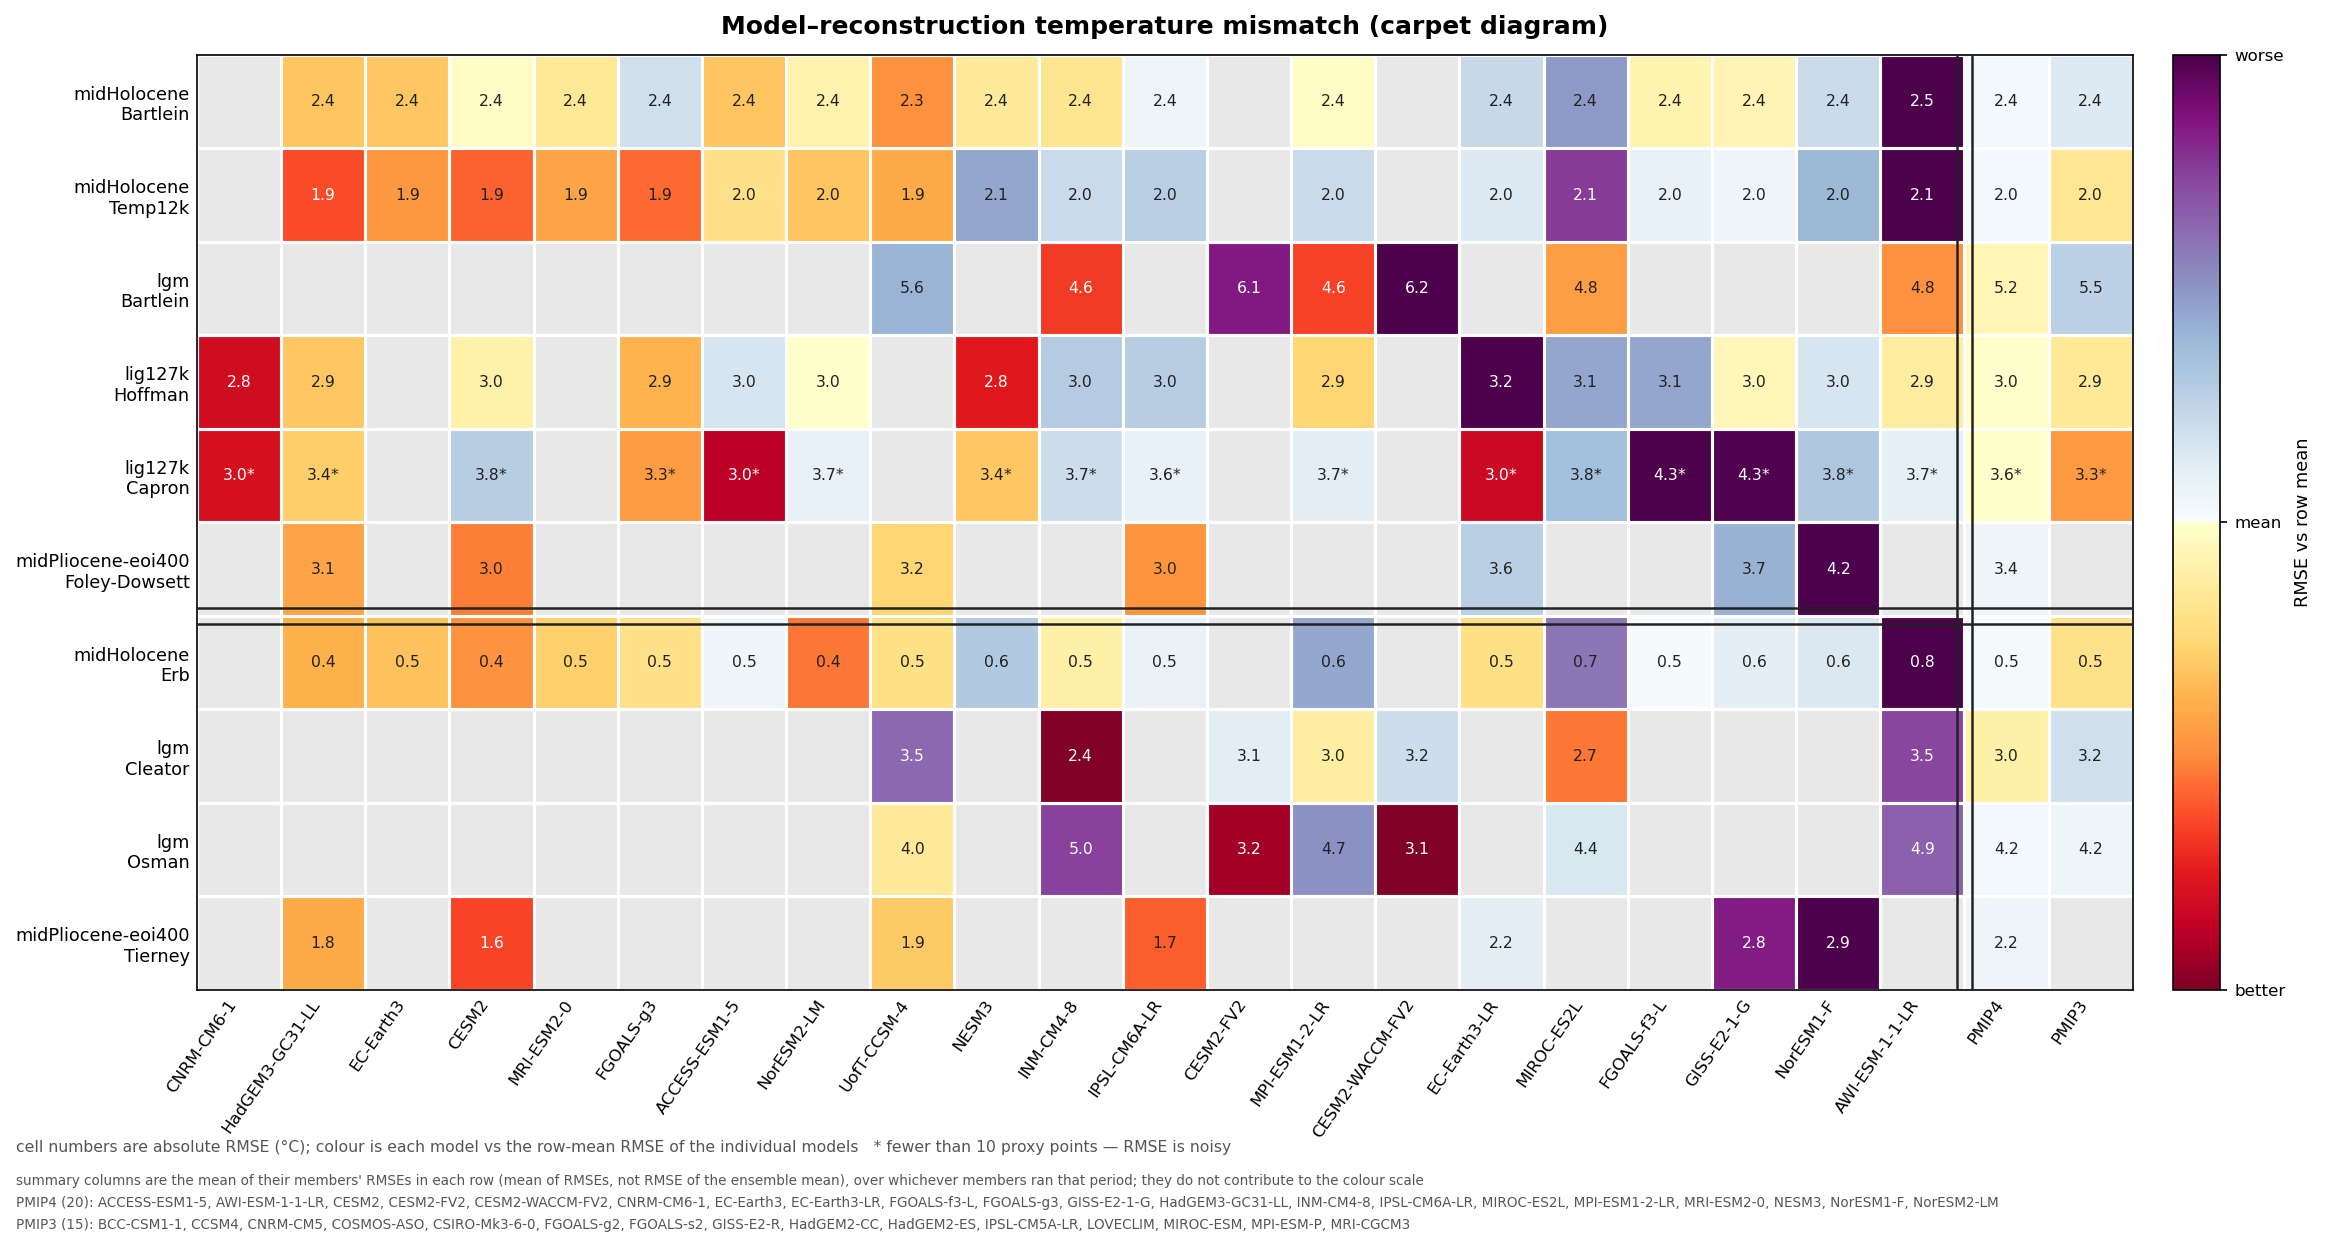
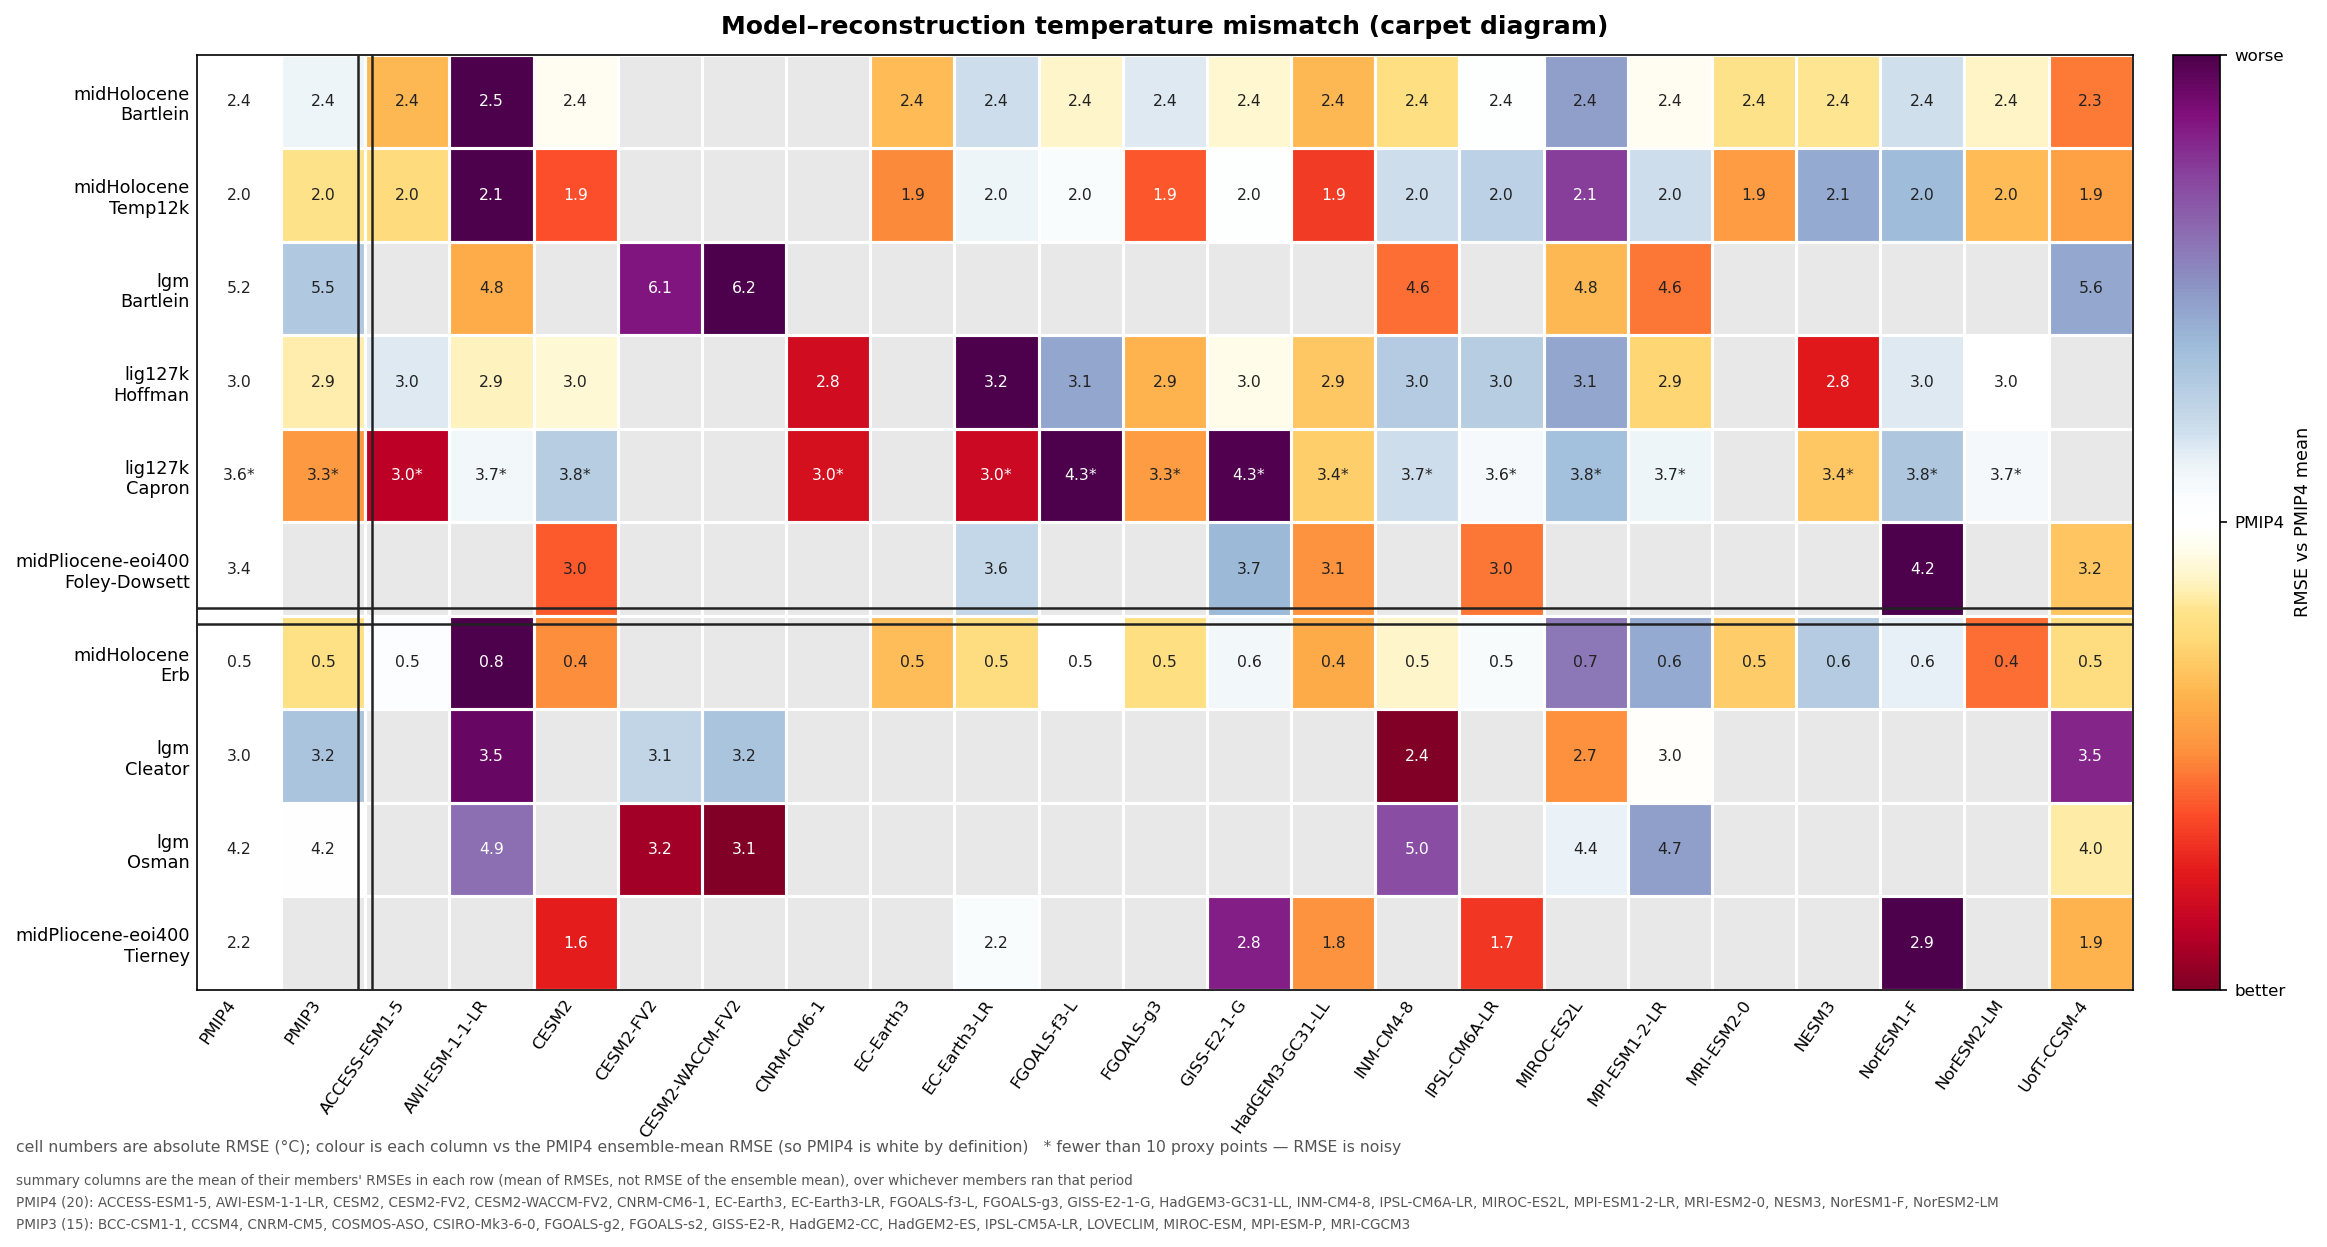
Centre the carpet colour scale on PMIP4, and move the summary columns left
Colour normalisation is now explicitly referenced to the PMIP4 ensemble mean
rather than the row mean, so each cell reads directly as better or worse than
the CMIP6 multi-model mean and PMIP4 is the centre colour by definition. The
scale spans every column including the summaries, so nothing clips when PMIP3
is a row's most extreme value. carpet_diagram_all_models.png has no PMIP4
column and falls back to the row mean; the colourbar and footnote relabel
themselves accordingly.

better_worse_cmap now fades the inner fifth of each ramp to pure white. The
centre was previously the seam where reversed-YlOrRd (pale yellow) meets BuPu
(pale blue), which is near white but not white, and left a faint discontinuity
right where the reference value sits.

PMIP4 and PMIP3 move from the right-hand edge to the left, keeping the vertical
double rule between them and the models. The models are now listed
alphabetically instead of ranked by mean relative RMSE.

Claude-Session: https://claude.ai/code/session_015UoY4DGFBcKaf6j3EmSw4P

diff --git a/carpet_diagram/carpet_figure.py b/carpet_diagram/carpet_figure.py
@@ -27,14 +27,23 @@ OUT_DIR = os.path.join(SCRIPT_DIR, 'output')
 
 
 def better_worse_cmap():
-    """Diverging colormap for RMSE-relative-to-row-mean.
+    """Diverging colormap for RMSE relative to the reference column.
 
-    Below-mean (better than average) → warm YlOrRd (pale yellow → red); above-mean
-    (worse) → cool BuPu (pale → blue → purple); the mean sits at the pale centre.
+    Better than the reference → warm YlOrRd (white → yellow → red); worse → cool
+    BuPu (white → blue → purple). The inner end of each ramp is faded to pure
+    white so the reference value sits on an exactly white centre, rather than on
+    the pale-yellow/pale-blue seam the two colormaps would otherwise meet at.
     """
     n = 128
-    better = plt.get_cmap('YlOrRd')(np.linspace(1.0, 0.0, n))  # red → pale (best → mean)
-    worse = plt.get_cmap('BuPu')(np.linspace(0.0, 1.0, n))     # pale → purple (mean → worst)
+    better = plt.get_cmap('YlOrRd')(np.linspace(1.0, 0.0, n))  # red → pale (best → centre)
+    worse = plt.get_cmap('BuPu')(np.linspace(0.0, 1.0, n))     # pale → purple (centre → worst)
+
+    white = np.array([1.0, 1.0, 1.0, 1.0])
+    k = n // 5                                   # fade the innermost fifth to white
+    t = np.linspace(0.0, 1.0, k)[:, None]
+    better[n - k:] = better[n - k:] * (1 - t) + white * t
+    worse[:k] = white * (1 - t) + worse[:k] * t
+
     return LinearSegmentedColormap.from_list('better_worse', np.vstack([better, worse]))
 
 # Explicit row order, in two groups separated by a double rule in the figure:
@@ -159,31 +168,32 @@ def make_figure(out_name='carpet_diagram.png', collapse=False, title=None):
     npts = df.pivot_table(index=['period', 'compilation'], columns='model', values='n_points')
     rmse = rmse.reindex(index=row_keys)
 
-    # Per-row normalisation relative to the row mean: each cell is the model's signed
-    # deviation from that (period, compilation) row's average RMSE, scaled by the row's
-    # largest absolute deviation so the most extreme model reaches ±1. Better-than-
-    # average (lower RMSE) is negative → warm (yellow/red); worse-than-average is
-    # positive → cool (blue/purple); the mean sits at the pale centre. This shows model
-    # ranking regardless of each row's absolute RMSE magnitude. Cells keep absolute °C.
+    # Per-row normalisation: each cell is its signed deviation from a reference RMSE,
+    # scaled by the row's largest absolute deviation so the most extreme column reaches
+    # ±1. Below the reference (better) is negative → warm (yellow/red); above (worse) is
+    # positive → cool (blue/purple); the reference itself is the pale centre. This shows
+    # model ranking regardless of each row's absolute RMSE. Cells keep absolute °C.
     #
-    # The baseline is the *individual models only*: the PMIP4/PMIP3 summary columns are
-    # placed on that scale but excluded from defining it, so the colours mean "vs the
-    # typical model" rather than "vs a mix of models and ensemble means". A consequence
-    # worth knowing when reading the figure: PMIP4 is by construction the mean of most
-    # of those same models, so it sits near the pale centre in every row — that is
-    # arithmetic, not a result. PMIP3's colour is the informative one.
+    # The reference is the PMIP4 ensemble mean where that column exists, so every cell
+    # reads directly as "better or worse than the CMIP6 multi-model mean" and PMIP4 is
+    # white by definition. The all-models figure has no PMIP4 column and falls back to
+    # the row mean. The scale spans every column including the summaries, so nothing
+    # clips even when PMIP3 is the most extreme value in a row.
     individual = [m for m in rmse.columns if m not in composites]
+    reference = 'PMIP4' if 'PMIP4' in rmse.columns else None
 
-    def relative_to_mean(r):
-        dev = r - r[individual].mean()
-        scale = np.nanmax(np.abs(dev[individual]))
+    def relative_to_reference(r):
+        centre = r['PMIP4'] if reference else r[individual].mean()
+        if not np.isfinite(centre):
+            return r * np.nan
+        dev = r - centre
+        scale = np.nanmax(np.abs(dev))
         return dev / scale if np.isfinite(scale) and scale > 0 else dev * 0.0
 
-    rel = rmse.apply(relative_to_mean, axis=1)
-    # Columns: models sorted by mean relative RMSE (best-on-average on the left).
-    # The summary columns are not models, so they are pinned to the far right in
-    # COMPOSITE_LABELS order instead of competing in the ranking.
-    model_order = rel[individual].mean(axis=0).sort_values().index.tolist() + composites
+    rel = rmse.apply(relative_to_reference, axis=1)
+    # Columns: the summary columns first, at the left-hand edge in COMPOSITE_LABELS
+    # order, then the individual models alphabetically.
+    model_order = composites + sorted(individual)
     rmse = rmse.reindex(columns=model_order)
     rel = rel.reindex(columns=model_order)
     npts = npts.reindex(index=row_keys, columns=model_order)
@@ -231,29 +241,30 @@ def make_figure(out_name='carpet_diagram.png', collapse=False, title=None):
         for dy in (-0.085, 0.085):
             ax.axhline(b - 0.5 + dy, color='#222222', linewidth=1.2, zorder=5)
 
-    # Matching double rule before the block of summary columns.
+    # Matching double rule after the block of summary columns on the left.
     if composites:
-        xb = model_order.index(composites[0]) - 0.5
+        xb = len(composites) - 0.5
         for dx in (-0.085, 0.085):
             ax.axvline(xb + dx, color='#222222', linewidth=1.2, zorder=5)
 
     cbar = fig.colorbar(im, ax=ax, fraction=0.025, pad=0.02, ticks=[-1, 0, 1])
-    cbar.set_label('RMSE vs row mean', fontsize=8.5)
-    cbar.ax.set_yticklabels(['better', 'mean', 'worse'])
+    cbar.set_label(f'RMSE vs {reference} mean' if reference else 'RMSE vs row mean',
+                   fontsize=8.5)
+    cbar.ax.set_yticklabels(['better', reference or 'mean', 'worse'])
     cbar.ax.tick_params(labelsize=8)
 
     ax.set_title(title or 'Model–reconstruction temperature mismatch (carpet diagram)',
                  fontsize=12, fontweight='bold', pad=10)
-    notes = ['cell numbers are absolute RMSE (°C); colour is each model vs the row-mean RMSE '
-             'of the individual models']
+    centre_txt = (f'the {reference} ensemble-mean RMSE (so {reference} is white by definition)'
+                  if reference else 'the row-mean RMSE of the individual models')
+    notes = [f'cell numbers are absolute RMSE (°C); colour is each column vs {centre_txt}']
     if (npts.values[np.isfinite(npts.values)] < MIN_POINTS).any():
         notes.append(f'* fewer than {MIN_POINTS} proxy points — RMSE is noisy')
     fig.text(0.01, 0.01, '   '.join(notes), fontsize=7.5, color='#555555', ha='left')
 
     if composites:
         lines = ['summary columns are the mean of their members\' RMSEs in each row (mean of '
-                 'RMSEs, not RMSE of the ensemble mean), over whichever members ran that period;'
-                 ' they do not contribute to the colour scale']
+                 'RMSEs, not RMSE of the ensemble mean), over whichever members ran that period']
         for label in composites:
             lines.append(f'{label} ({len(members[label])}): ' + ', '.join(members[label]))
         for k, line in enumerate(lines):

diff --git a/CLAUDE.md b/CLAUDE.md
@@ -85,7 +85,7 @@ The notebooks read their working directory via `os.getcwd()`, so run them from `
 3. Bilinearly sample each model's anomaly field at every proxy location — model lon is 0–360°, proxy lon −180–180°, so targets are wrapped and the field is made cyclic in longitude first. A `weight` column is carried through (defaults to 1.0 when Step 1 omits it).
 4. Compute per-model weight-weighted RMSE (and bias) against each compilation. Scattered-site compilations use unit weights, so that reduces to the ordinary RMSE; the gridded near-global products (Cleator, Osman, Erb, Tierney) use `cos(latitude)` weights so their RMSE is area-fair rather than pole-heavy. Weights are set per compilation in Step 1, so a period can mix the two (midHolocene and midPliocene now do).
 
-Outputs land in `carpet_diagram/output/`, one set per period: `recon_points_<period>.csv`, `model_anom_at_recon_<period>.csv`, `rmse_long_<period>.csv`, `rmse_summary_<period>.csv`. `carpet_figure.py` auto-discovers every `rmse_long_*.csv` and renders all periods/compilations as rows. Row order is set explicitly by `ROW_GROUPS`, a list of groups of `(period, compilation)` keys drawn in order and separated in the figure by a **double rule**: group 1 is the proxy compilations (midHolocene Bartlein/Temp12k, lgm Bartlein, lig127k Hoffman/Capron, midPliocene Foley-Dowsett), group 2 the data assimilation products (midHolocene Erb, lgm Cleator, lgm Osman, midPliocene Tierney). Any `(period, compilation)` present in the data but absent from `ROW_GROUPS` is appended as a further group and logged, never silently dropped — so adding a period still needs no edit here, but placing its row where you want it does. Running `carpet_figure.py` writes **two** figures. The headline one is `carpet_diagram.png`, the reduced version: a column per CMIP6-era PMIP model (the 22 in `CMIP6_PMIP_MODELS`, transcribed from the PMIP data-holdings table at pcmdi.llnl.gov — `EC-Earth3-Veg`/`EC-Earth3-Veg-LR` are listed there but have no CVDP output) plus `UofT-CCSM-4`, giving 21 columns. `carpet_diagram_all_models.png` is the every-model version (36 columns). Two **ensemble-mean summary columns** are pinned to the right of the reduced figure behind a vertical double rule, in `COMPOSITE_LABELS` order: **PMIP4** (the 20 CMIP6 archive models) and **PMIP3** (the 15 pre-CMIP6 ones). `UofT-CCSM-4` keeps its own column and is deliberately *not* folded into PMIP4, since it is not in the CMIP6 holdings — change the membership test in `composite_membership` to include it. Each summary is the plain **mean of its members' RMSEs** within a row, *not* the RMSE of their ensemble-mean anomaly field (which would be lower, because model errors partly cancel, and would need the notebooks re-run rather than just this script). Membership varies by row — no pre-CMIP6 model ran midPliocene, so PMIP3 is blank on those two rows. **The summary columns do not contribute to the colour scale**: normalisation uses the individual models only, so colours mean 'vs the typical model'. A consequence worth knowing when reading it — PMIP4 is by construction the mean of most of those same models, so it sits near the pale centre in every row; that is arithmetic, not a result, and PMIP3's colour is the informative one. Colour is **normalised per row relative to the row mean**: each cell is the model's signed deviation from that row's average RMSE (scaled by the row's largest absolute deviation), shown on a diverging map — better-than-average (lower RMSE) is warm yellow/red, worse-than-average is cool blue/purple, and the row mean is the pale centre (`better_worse_cmap`). This keeps model ranking legible despite very different absolute RMSE between periods; the printed cell numbers remain absolute RMSE in °C, and columns are ordered by each model's mean relative RMSE (best-on-average on the left).
+Outputs land in `carpet_diagram/output/`, one set per period: `recon_points_<period>.csv`, `model_anom_at_recon_<period>.csv`, `rmse_long_<period>.csv`, `rmse_summary_<period>.csv`. `carpet_figure.py` auto-discovers every `rmse_long_*.csv` and renders all periods/compilations as rows. Row order is set explicitly by `ROW_GROUPS`, a list of groups of `(period, compilation)` keys drawn in order and separated in the figure by a **double rule**: group 1 is the proxy compilations (midHolocene Bartlein/Temp12k, lgm Bartlein, lig127k Hoffman/Capron, midPliocene Foley-Dowsett), group 2 the data assimilation products (midHolocene Erb, lgm Cleator, lgm Osman, midPliocene Tierney). Any `(period, compilation)` present in the data but absent from `ROW_GROUPS` is appended as a further group and logged, never silently dropped — so adding a period still needs no edit here, but placing its row where you want it does. Running `carpet_figure.py` writes **two** figures. The headline one is `carpet_diagram.png`, the reduced version: a column per CMIP6-era PMIP model (the 22 in `CMIP6_PMIP_MODELS`, transcribed from the PMIP data-holdings table at pcmdi.llnl.gov — `EC-Earth3-Veg`/`EC-Earth3-Veg-LR` are listed there but have no CVDP output) plus `UofT-CCSM-4`, giving 21 columns. `carpet_diagram_all_models.png` is the every-model version (36 columns). Two **ensemble-mean summary columns** are pinned to the right of the reduced figure behind a vertical double rule, in `COMPOSITE_LABELS` order: **PMIP4** (the 20 CMIP6 archive models) and **PMIP3** (the 15 pre-CMIP6 ones). `UofT-CCSM-4` keeps its own column and is deliberately *not* folded into PMIP4, since it is not in the CMIP6 holdings — change the membership test in `composite_membership` to include it. Each summary is the plain **mean of its members' RMSEs** within a row, *not* the RMSE of their ensemble-mean anomaly field (which would be lower, because model errors partly cancel, and would need the notebooks re-run rather than just this script). Membership varies by row — no pre-CMIP6 model ran midPliocene, so PMIP3 is blank on those two rows. Both summary columns sit at the **left-hand edge** in `COMPOSITE_LABELS` order, ahead of the individual models, which are listed **alphabetically** rather than ranked. Colour is **normalised per row against the PMIP4 ensemble mean**: each cell is its signed deviation from that row's PMIP4 value, scaled by the row's largest absolute deviation, on a diverging map — better than PMIP4 (lower RMSE) is warm yellow/red, worse is cool blue/purple, and **PMIP4 is white by definition**. `better_worse_cmap` fades the inner end of each ramp to pure white so the centre is actually white rather than the pale-yellow/pale-blue seam where YlOrRd and BuPu would otherwise meet. The scale spans every column, summaries included, so nothing clips when PMIP3 is a row's most extreme value. `carpet_diagram_all_models.png` has no PMIP4 column and falls back to centring on the row mean (colourbar and footnote relabel themselves). This keeps model ranking legible despite very different absolute RMSE between periods; the printed cell numbers remain absolute RMSE in °C.
 
 ## Outstanding — CSIRO-Mk3L-1-2 piControl not yet restored (as of 7 Aug 2026)
 
